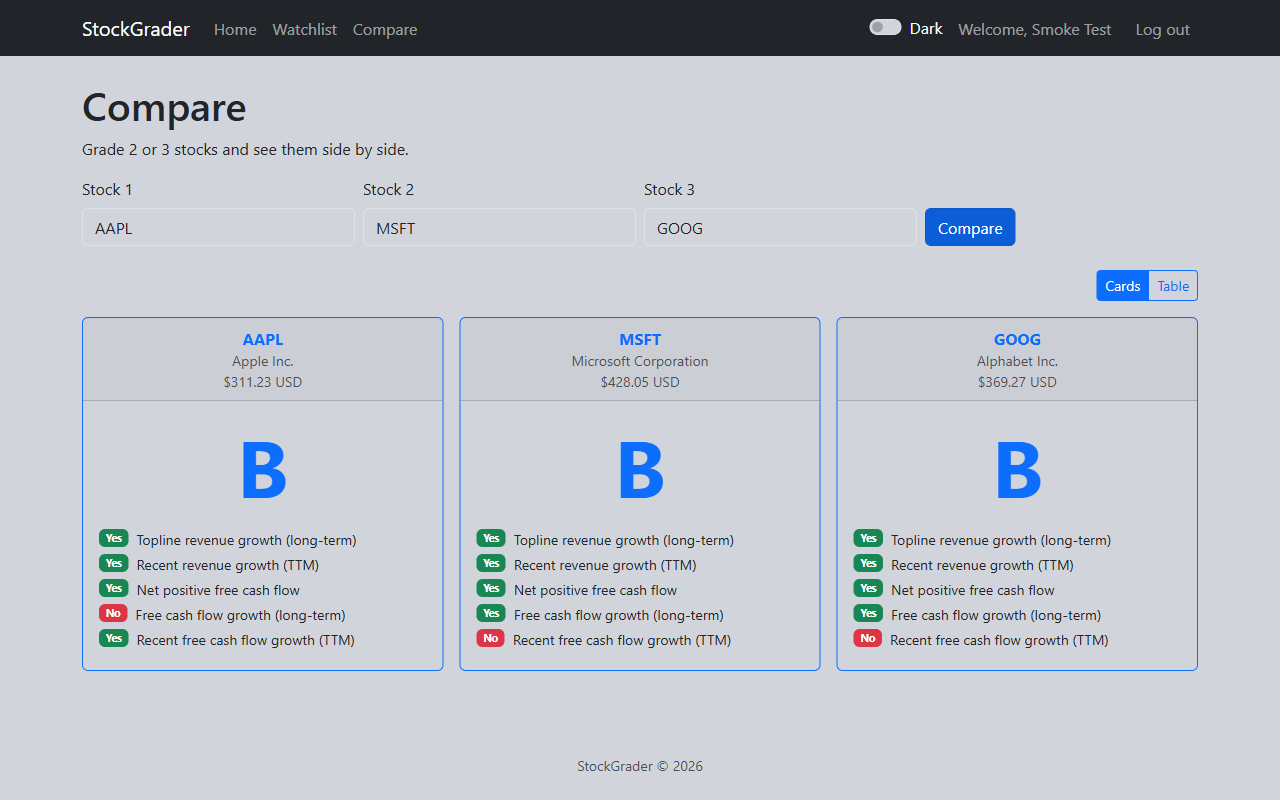
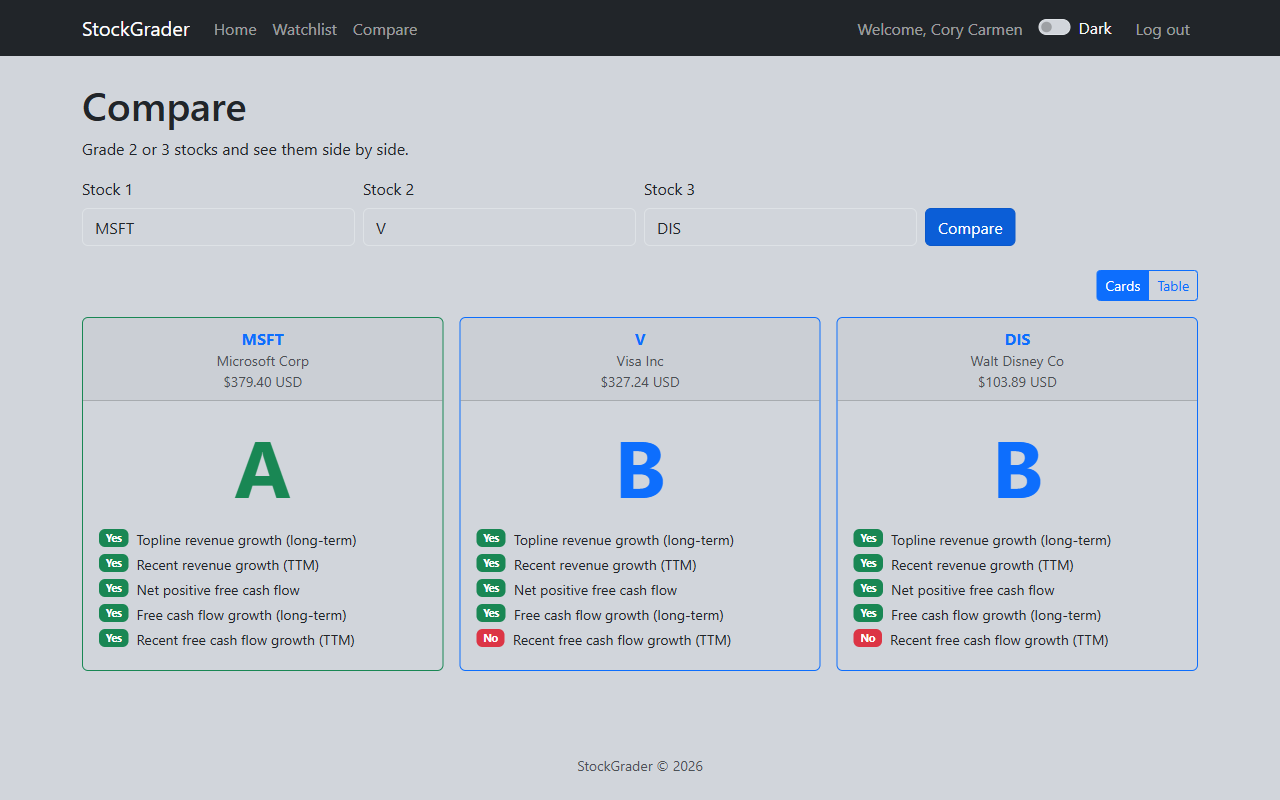
Refresh watchlist and compare screenshots with varied stocks and current grades

diff --git a/docs/devlog.md b/docs/devlog.md
@@ -226,7 +226,7 @@ Grade Detail for AAPL — canonical ticker, share price + currency, company name
 
 ![Grade Detail for AAPL on the live app](./images/grade-aapl.png)
 
-Watchlist with three rows, each showing the "grade at add" snapshot vs. the current cached grade plus the change column:
+Watchlist with four rows, each showing the "grade at add" snapshot vs. the current cached grade plus the change column (and the "Refresh all" control above the table):
 
 ![Watchlist on the live app](./images/watchlist.png)
 
